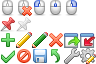
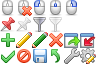
Handy Clicks 0.1.2.0pre1

Changed region(s): [[0.3438, 0.25, 0.6562, 0.5]]

diff --git a/chrome/content/sets.js b/chrome/content/sets.js
@@ -244,14 +244,15 @@ var handyClicksSets = {
 			this.$(id + "NewValue")      .value = this._new       + "/" + this._newDa       + " + " + newTypes;
 		}
 		delete this.eltsCache;
+		this._hasFilter = false;
 	},
 	redrawTree: function() {
 		this.treeBatch(this._redrawTree, this, arguments);
 	},
-	_redrawTree: function() {
+	_redrawTree: function(dontSearch) {
 		this.ut.removeChilds(this.tBody);
 		this._drawTree();
-		this.searchInSetsTree(null, true);
+		!dontSearch && this.searchInSetsTree(null, true);
 		this.setDialogButtons();
 		//document.title = document.title.replace(/\*?$/, this.ps.otherSrc ? "*" : "");
 	},
@@ -966,6 +967,11 @@ var handyClicksSets = {
 		this.$("hc-sets-tree-findNext")       .setAttribute("disabled", !found);
 		this.$("hc-sets-tree-findPrev")       .setAttribute("disabled", !found);
 		this.$("hc-sets-tree-findSelectAll")  .setAttribute("disabled", !found);
+
+		this.$("hc-sets-tree-findFilter").setAttribute(
+			"checked",
+			this.$("hc-sets-tree-searchFilterMode").getAttribute("checked")
+		);
 	},
 	selectAll: function() {
 		if(this.isTreePaneSelected)
@@ -1276,12 +1282,13 @@ var handyClicksSets = {
 		var code = e.keyCode;
 		if(code == e.DOM_VK_RETURN && e.ctrlKey)
 			this.searcher.selectAll();
+		else if(code == e.DOM_VK_RETURN && e.altKey)
+			this.toggleFilterMode();
 		else if(code == e.DOM_VK_DOWN || code == e.DOM_VK_RETURN && !e.shiftKey)
 			this.searcher.next();
 		else if(code == e.DOM_VK_UP || code == e.DOM_VK_RETURN && e.shiftKey)
 			this.searcher.prev();
 		else if(code == e.DOM_VK_ESCAPE && e.target.value) {
-			e.preventDefault(); // Don't close dialog window
 			if(e.target.type != "search") { // Firefox < 3.5
 				e.target.value = "";
 				this.searchInSetsTree();
@@ -1289,7 +1296,18 @@ var handyClicksSets = {
 		}
 		else
 			return;
-		e.preventDefault();
+		e.preventDefault(); // Don't close dialog window
+	},
+	toggleFilterMode: function() {
+		if(!this.isTreePaneSelected)
+			return;
+		var fm = this.$("hc-sets-tree-searchFilterMode");
+		fm.setAttribute("checked", fm.getAttribute("checked") != "true");
+		this.searchInSetsTree(null, true);
+	},
+	searchInSetsTreeDelay: function() {
+		// Needs for undo/redo
+		this.ut.timeout(this.searchInSetsTree, this, arguments, 0);
 	},
 	searchInSetsTree: function(sIt, notSelect) {
 		if(sIt && !this._searchTimeout) {
@@ -1310,6 +1328,7 @@ var handyClicksSets = {
 	},
 	_searchInSetsTree: function(sIt, notSelect) {
 		sIt = sIt || this.$("hc-sets-tree-searchField");
+		var filterMode = this.$("hc-sets-tree-searchFilterMode").getAttribute("checked") == "true";
 
 		var sTerm = sIt.value;
 		var isRegExp = false;
@@ -1333,11 +1352,13 @@ var handyClicksSets = {
 			sTerm = sTerm.toLowerCase().split(/\s+/);
 		}
 
-		this.searcher.reset();
-		var tRow, rowText, okRow, indx;
-		var notFound = true, count = 0;
+		this._hasFilter && this._redrawTree(true);
+		var tRow, rowText, okRow, hl;
+		var matchedRows = [];
 		for(var h in this.rowsCache) {
 			tRow = this.rowsCache[h];
+			if(!tRow.parentNode || !tRow.parentNode.parentNode)
+				continue;
 			okRow = hasTerm;
 			rowText = this.getRowText(tRow, !isRegExp); //~ todo: cache?
 
@@ -1348,22 +1369,38 @@ var handyClicksSets = {
 			)
 				okRow = false;
 
+			hl = filterMode ? false : okRow;
 			//this.addProperties(tRow, { hc_search: okRow });
-			this.addClildsProperties(tRow, { hc_search: okRow }, true);
-			if(!okRow)
+			this.addClildsProperties(tRow, { hc_search: hl }, true);
+			if(!okRow) {
+				if(hasTerm && filterMode) {
+					var tItem = tRow.parentNode;
+					var tChld = tItem.parentNode;
+					tChld.removeChild(tItem);
+					while(!tChld.hasChildNodes() && tChld != this.tBody) {
+						tItem = tChld.parentNode;
+						tChld = tItem.parentNode;
+						tChld.removeChild(tItem);
+					}
+					this._hasFilter = true;
+				}
 				continue;
-			count++;
-			indx = this.tView.getIndexOfItem(tRow.parentNode);
-			this.searcher.add(indx);
-			if(notFound) {
-				notFound = false;
-				if(!notSelect) // Don't select for redraw
-					this.searcher.select(indx);
 			}
+			matchedRows.push(tRow);
 		}
+
+		this.searcher.reset();
+		matchedRows.forEach(function(tRow) {
+			var indx = this.tView.getIndexOfItem(tRow.parentNode);
+			this.searcher.add(indx);
+		}, this);
 		this.searcher.finish();
-		this.$("hc-sets-tree-searchResults").value = hasTerm ? count : "";
-		sIt.setAttribute("hc_notFound", hasTerm && notFound);
+
+		if(!notSelect && matchedRows.length) // Don't select for redraw
+			this.searcher.select();
+
+		this.$("hc-sets-tree-searchResults").value = hasTerm ? matchedRows.length : "";
+		sIt.setAttribute("hc_notFound", hasTerm && !matchedRows.length);
 
 		this._lastSearch = Date.now();
 	},

diff --git a/chrome/content/prefSvc.js b/chrome/content/prefSvc.js
@@ -294,7 +294,8 @@ var handyClicksPrefSvc = {
 		if(typeof legacyDestructor == "function") { // Added: 2010-06-15
 			this.ut._warn(new Error(
 				"Construction \"return destructorFunction;\" is deprecated, use "
-				+ "\"void handyClicksPrefSvc.registerDestructor(function destructor, object context, boolean notifyFlags)\" "
+				+ "\"void handyClicksPrefSvc.registerDestructor"
+				+ "(in function destructor, in object context, in unsigned long notifyFlags)\" "
 				+ "instead"
 			));
 			this.registerDestructor(

diff --git a/chrome/content/style/sets.css b/chrome/content/style/sets.css
@@ -40,6 +40,15 @@ radio[pane="hc-sets-pane-funcs"] {
 	background-color: #e4ffe4;
 	color: black;
 }
+#hc-sets-tree-searchFilterMode {
+	-moz-user-focus: normal;
+	list-style-image: url("icons16.png");
+	-moz-image-region: rect(16px 64px 32px 48px);
+	padding: 4px 4px 4px 5px !important;
+}
+#hc-sets-tree-searchFilterMode[checked="true"] {
+	-moz-image-region: rect(16px 48px 32px 32px);
+}
 #hc-sets-tree-searchResults {
 	min-width: 1.6em;
 	opacity: 0.5;
